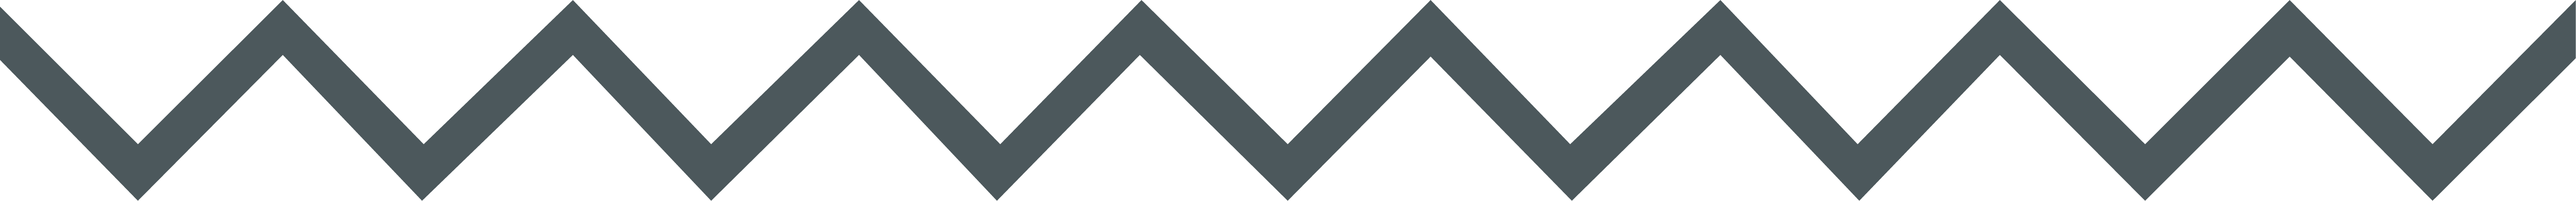
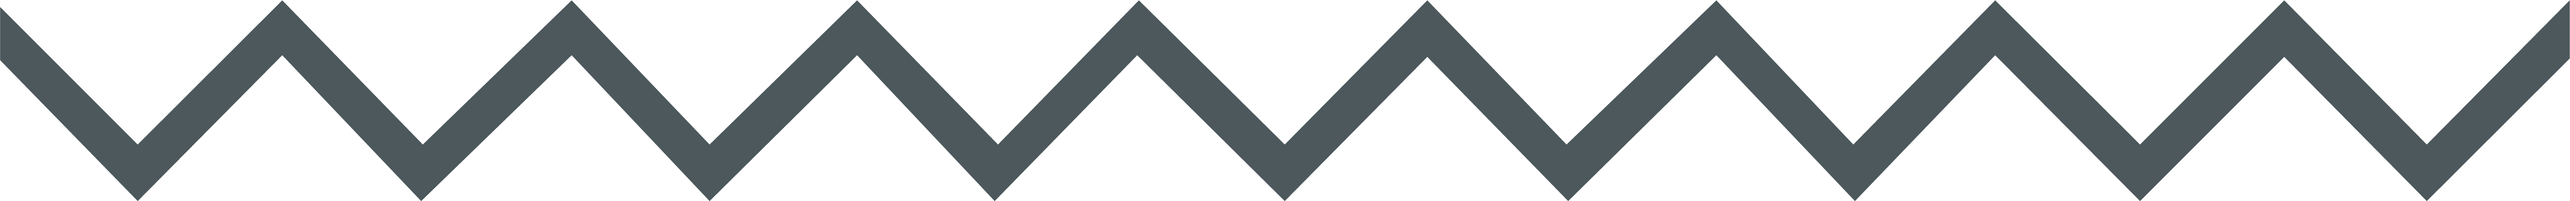
css

Changed region(s): [[0.9979, 0.2928, 1.0, 0.3221]]

diff --git a/index.html b/index.html
@@ -47,11 +47,10 @@
             <div class="col-12 col-sm-12 col-md-12 col-lg-12 col-xl-12">
                 <img src="img/gif/splash.gif"></div>
             <div class="col-12 col-sm-12 col-md-12 col-lg-12 col-xl-12">
-
             </div>
         </section>
 
-        <section id="voresis" class="row">
+        <section id="event" class="row">
             <div class="col-12 col-sm-12 col-md-12 col-lg-12 col-xl-12">
                 <h2>Hvad er Moringa?</h2>
             </div>
@@ -64,19 +63,23 @@
                 <p>Moringa har en grøn, sund, let bitter smag, der minder mest om smagen af spinat eller grøn te.</p>
                 <p>Moringa pulvert fra Roots Food er fremstillet af Moringa-træets blade. Bladene er håndplukkede og naturligt forarbejdet til flager eller pulver fyldt med næringsstoffer.</p>
                 <p>Med Moringa kan du starte og afslutte dagen med naturlig, rolig energi, fyldt med antioxidanter og næringsstoffer, da pulvert ikke indeholder koffein.</p>
-                <p>Moringa-pulveret og flagerne kan praktisk talt blandes med ethvert mad eller drikke for at give et sundt grønt boost.</p>
+
             </div>
 
         </section>
-        <section id="opskrift/fordele" class="row">
+        <section class="row">
             <div class="col-12 col-sm-12 col-md-12 col-lg-12 col-xl-12">
+                <img src="img/zigzag.png">
+            </div>
+        </section>
+        <section id="opskrift" class="row">
+            <div class="col-12 col-sm-12 col-md-12 col-lg-4 col-xl-4">
                 <h2>Moringa pulverts fordele</h2>
-            </div>
-            <div class="col-12 col-sm-12 col-md-6 col-lg-6 col-xl-6">
-                <h4>Opskrifter </h4>
                 <p>Moringa-pulveret og flagerne kan praktisk talt blandes med ethvert mad eller drikke for at give et sundt grønt boost.</p>
+                <p>Her får du en opskrift på en lækker Moringa latte, samt en overskuelig oversigt over de mange fordele ved pulvert.</p>
+                <img src="img/moringa.jpg">
             </div>
-            <div class="col-12 col-sm-12 col-md-6 col-lg-6 col-xl-6">
+            <div class="col-12 col-sm-12 col-md-8 col-lg-8 col-xl-8">
                 <div id="carouselExampleIndicators" class="carousel slide" data-ride="carousel">
                     <ol class="carousel-indicators">
                         <li data-target="#carouselExampleIndicators" data-slide-to="0" class="active"></li>
@@ -103,17 +106,19 @@
             </div>
         </section>
 
-        <section id="omos" class="row">
+        <section id="tilmelding" class="row">
             <div class="col-12 col-sm-12 col-md-12 col-lg-12 col-xl-12">
                 <h2>Roots Food & jo:ga inviterer til ekslusivt arrangement i jo:ga's smukke loakler i København K</h2>
-                <p>Vi lover en dag fyldt med forkælelse for både krop og sind og du vil gå herfra med fornyet energi. Har du gået til yoga i mange år eller har du aldrig prøvet en yoga time? Vi har skruet eventet sammen, så alle er velkomne og alle vil få noget ud af dagen og træningen. Vi glæder os til, at forkæle jer!
-                    <br>Eventet kommer til, at være fra kl 10-15 og koster 199kr.
-                    <br>Nedenfor kan du se hvad der er inkluderet i prisen.
-                </p>
+            </div>
+            <div class="col-12 col-sm-12 col-md-12 col-lg-6 col-xl-6">
+                <h4>Om arrangement</h4>
+                <p>Vi lover en dag fyldt med forkælelse for både krop og sind og du vil gå herfra med fornyet energi. Har du gået til yoga i mange år eller har du aldrig prøvet en yoga time? Vi har skruet eventet sammen, så alle er velkomne og alle vil få noget ud af dagen og træningen. Vi glæder os til, at forkæle jer! </p>
+                <p>Eventet kommer til, at være fra kl 10-15 og koster 199kr.</p>
+
 
             </div>
             <div class="col-12 col-sm-12 col-md-6 col-lg-6 col-xl-6">
-
+                <h4>Inkluderet i prisen</h4>
                 <ul>
                     <li>1,5 times yoga med fokus på klassiske yoga-stillinger</li>
                     <li>Oplæg om en sund og balanceret livsstil</li>
@@ -121,13 +126,7 @@
                     <li>Smagsprøver fra Roots Food</li>
                     <li>Goodiebags</li>
                     <li>Yoga udstyr står til rådighed</li>
-
-
-
                 </ul>
-            </div>
-
-            <div class="col-12 col-sm-12 col-md-6 col-lg-6 col-xl-6">
                 <button>Tilmeld dig her</button>
             </div>
         </section>

diff --git a/style.css b/style.css
@@ -21,14 +21,17 @@
                 width: 100%;
             }
 
-            #voresis {
+            #event {
                 text-align: center;
             }
 
-            #opskrift/fordele {
+            #opskrift {
                 text-align: center;
             }
 
+            #opskrift img {
+                padding: 20px;
+            }
 
             #voresis .col-xs-12 {
                 margin-bottom: 2em;
